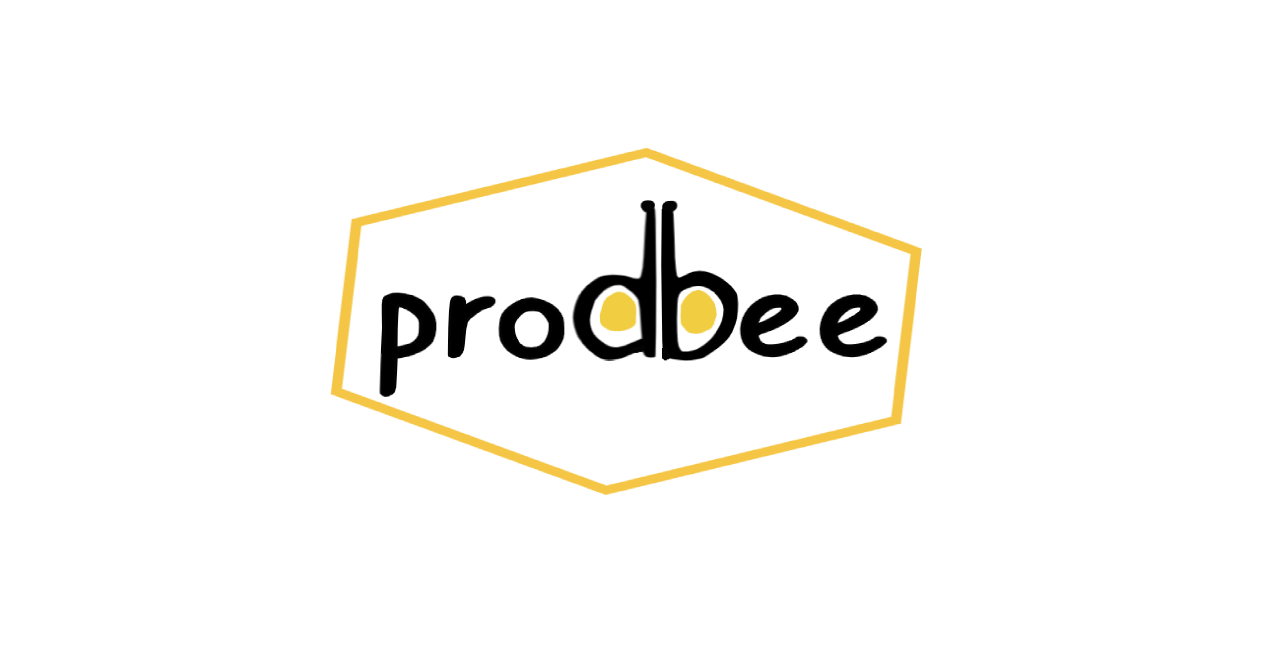
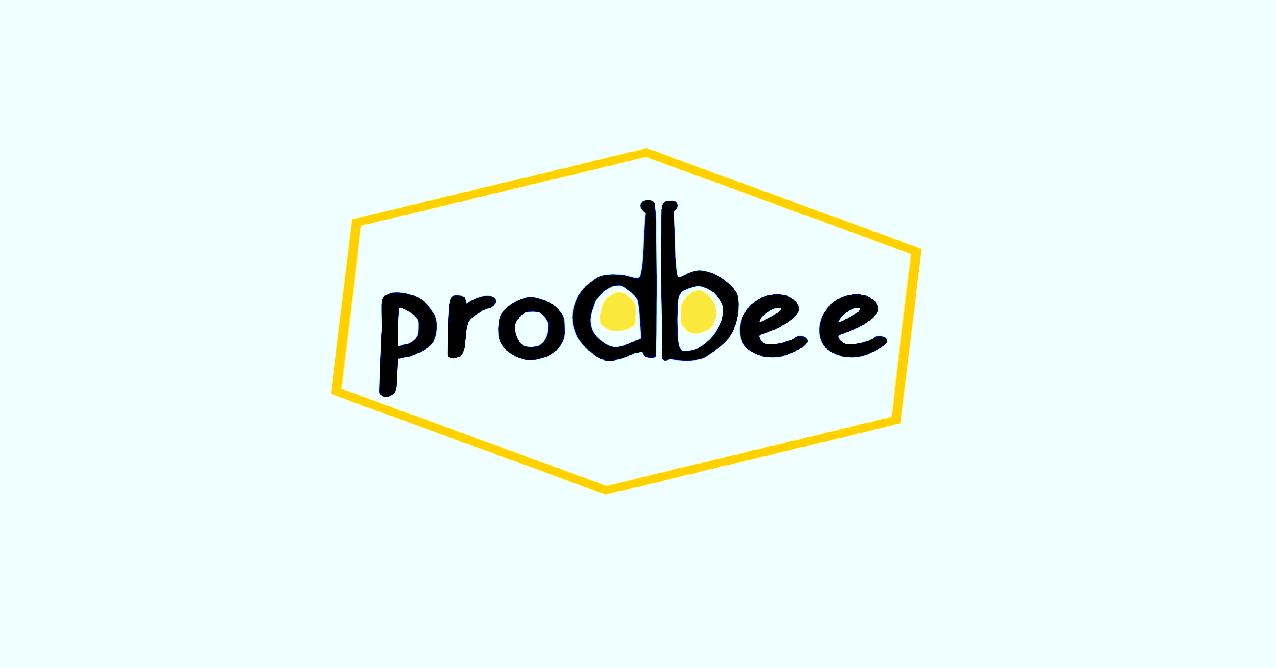
Prioritization post and prodbee image fix

diff --git a/_posts/2019-11-03-product-prioritization-empathy.md b/_posts/2019-11-03-product-prioritization-empathy.md
@@ -1,0 +1,102 @@
+---
+title: Product Prioritisation in Steps - Impact & Empathy
+image: assets/images/Prioritise-empathy.jpg
+author: tarun
+categories:
+- prioritisation
+tags:
+- product management
+- Product Managers
+- Associate Product Manager
+- Prioritisation techniques
+- Prioritisation matrix
+- framework
+- Empathy
+- Product Strategy
+- Stakeholder Management
+- Customer Impact
+- Product Value
+- featured
+---
+
+Prioritization is a key skill for a Product Manager. It ensures that Product companies invest on most important products features and build a space for innovation. It comprises of a detailed impact-effort analysis and intense stakeholder management. Product Managers have to use quantitative tools to lay down objectivity and fairness while managing stakeholders' opinions and satisfaction. In quantitative frameworks, often even a strong opinion be it from a customer or a business stakeholder is undermined as numbers are emotion agnostic. A good Product Manager is the one with a high degree of objectivity and empathy. 
+
+Below are some situation examples where even though customers may really need a feature, prioritization can easily fail.
+
+* Number of users of a feature are less in number but it's emotional value for customers is high
+* Feature's true impact on customer's daily lives is not accurately measured
+* Impact of unhappy customers (or to be unhappy) on business is not well understood
+
+Failure to analyse customer's emotions during prioritizations have caused many Product failures and PR disasters. In the famous "New Coke" disaster of 1980's, a functional aspect (sweetness preference of new customers) was prioritized over  emotions of loyal coke customers who swore by the original bitter taste. Coca Cola lost millions and finally had to recall "New Coke" after massive public outrage.
+Also, since Product and Business objectives are tied together, product prioritizations have to be considerate of business stakeholder's opinions and priorities. Imagine a Product with successful metrics on paper but with dissatisfied stakeholders.
+
+The below steps explain the product prioritization process which manages empathy & satisfaction among stakeholders (including customers). New impact factors like emotional value and priority of the customers are introduced within the standard framework of Impact vs Effort. To make it more meaningful to stakeholders, "theme" based grouping of product features is used. PMs first prioritize the "themes" as per stakeholder objectives. Afterwards, the relevant product features are listed and prioritized.
+
+
+**Themes : Feature bundles with common objectives** <br/>
+
+![product-themes]({{ site.baseurl }}/assets/images/product-themes.jpg)
+<u>Step 1) List and prioritize Product themes</u> :- While collaborating with stakeholders, Product leads first build consensus on prioritizations and timelines of "product themes". It is an outcome driven strategy in which multiple themes of one or two objectives are prioritized in the roadmap. PMs build themes from the annual goals and prioritize them across quarters/sprints as part of long term planning. Product themes are generally groupings of similar set of product features but product vision is more important than the feature details. Theme prioritization helps teams to focus by avoiding conflicts. It also makes prioritization more transparent and predictable for the stakeholders.
+
+Lets assume that as per stakeholder alignment, the below Themes A and B has greater priority than Theme C in current prioritization cycle
+<table style="border-color: 333399;">
+<tbody>
+<tr>
+<td><span style="color: #333399;">Theme A) - Enhancing customer satisfaction / service (existing features)</span><br /><span style="color: #333399;">Theme B) - Value added services / new features for increase in repeat rates</span><br /><span style="color: #333399;">Theme C) - Improving customer experience of checkout flow &amp; increasing booking conversions&nbsp;&nbsp;</span></td>
+</tr>
+</tbody>
+</table>
+*Note:- Themes could be spread across multiple quarters or sprints. Working on more one theme at the same time could also be common*
+
+<u>Step 2) List the plausible product features for prioritized themes</u> :- Each theme is split into multiple features with the defined objectives. Product Manager's own experience may not be the only way to define this feature list. This can be done creatively with contributions from different teams. 
+The below ways could be used to build feature list -
+* Brainstorming sessions with Business, Design, Engg. & Product teams  
+* Backlog of feature requests 
+* Market/industry trends 
+* Competitors
+* Existing product extensions/modifications
+
+
+<p>Themes -<br /><span style="color: #333399;">Theme A) - Enhancing customer satisfaction / service (existing features)</span><br /><span style="color: #333399;">Theme B) - Value added services / new features for increase in repeat rates</span></p>
+Features -
+![theme-features]({{ site.baseurl }}/assets/images/Themes-features.png)
+*Note:- Since the features are not detailed or analysed yet, product vision is more important than feature detailing at this stage*
+
+**Impact Value of features**  
+<u>Step 3) Identify "Business / Opportunity Value" of features</u> :- Business /opportunity could be measured by projecting historical data of business metrics like revenue, profit and efficiency. The opportunity cost e.g. GMV loss per day can also indicate the sense of urgency.
+* Revenue impact  - overall increase in GMV, USD1000 GMV per day 
+* Customer acquisition - rate of growth of new customers
+* Profit impact  - increase in profit margins
+* Operational efficiency - Manhours saved
+
+*Note :- For products with Customer satisfaction as primary objectives, emotional value can already be included in NPS/CSAT scores*
+
+<u>Step 4) Identify "Customer Satisfaction Value" of features</u>  :- Customer Satisfaction Value is often less deterministic as compared to business/opportunity but it can be partly measured using proxy metrics like usage, engagement, CSAT, NPS. 
+* User experience - Number of users/usage (Reach), Emotional value for target customers, Priority of target customers - CLV, NPS/CSAT impact
+* Customer Engagement - Number of users (Reach), Emotional value for target customers, Priority of target customers - CLV, NPS/CSAT impact
+
+Kano model is a popular prioritization tool used for prioritization. It is very effective when used for defining Emotional Value / Customer Satisfaction. Customer's satisfication from features can be determined by classifing them into attractive needs, performance needs or basic needs and checking the stage of the feature.
+* Attractive Needs: These features trigger feelings of high satisfaction and delight, but users are not dissatisfied if the feature are not present
+* Performance Needs: These features cause delight if they are present and cause dissatisfaction when they are not (or if they are poorly implemented). They’re very one-dimensional in nature and rely on good execution in order to be valued by users
+* Basic Needs: These are must-haves from customer expectations. Not including them is dissatisfying, but the ROI of improving them goes down sharply
+![KANO-model]({{ site.baseurl }}/assets/images/KANO-empathy.png)
+*Note :- Emotional Value can be measured from by -
+i)  asking open questions to sample of customers directly
+ii) survey data on how much customers love that feature 
+iii) using useability studies with and without the feature 
+iv) finding out number of feedbacks the feature received from customers.
+v) In some situations, you can also look at how many customers complained when the feature was not working properly (downtime) and how strong, quick user feedback was*
+
+**Cost of features**  
+<u>Step 5) Identify estimated Effort for features</u> :- Effort could be measured in terms of manhours required for the product / feature to be built. One must also check if relevant expertise is available for feature development. In other words, Effort must also include probablistic time-effort required to identify and resolve technical complexities and time for testing. e.g. XXL, XL, L, M, S (called T-shirt sizes) assuming a Large (L) effort feature takes 30 days or 2 sprints for development and testing. Based on the effort and resources at hand, we can identify the possible timeline and schedule for each of the feature. 
+
+<u>Step 6) Identify Risk / Confidence for features</u> :- The products features should also be weighed against Risk and confidence. E.g. The Business value impact for feature X may be high but confidence on its impact achievement may be low. Also, there could be predictable or unforseen operational/technical failures during development and execution. During prioritization, one must carefully assess and quantify those risk for better decision making and risk mitigation.
+
+**Prioritized Feature Set**  
+<u>Step 7) Rate features based on each factor</u> :- Points or ranks or categories (High, Medium, Low) are given for each of the factors (business and customer value, effort and Risk) against the feature. Customer and Business value can be aggregated as 'Impact value' with appropriate weightage.
+![Factor-prioritisation]({{ site.baseurl }}/assets/images/factor-prioritization.png)
+<u>Step 8) Rank the features or set the overall feature priority </u> :- Considering Impact Value, Effort and Risk/confidence, PMs should be able to come up with a clear priority of product features in Ranking or Points. It can also be useful to give different weights to different factors before arriving at final priority of features. It is important to not just logically quantify the priority based on multiple factor but is also important to represent the priority and communicate it to the stakeholders in understandable fashion. The below graphical representation is a useful way to represent the overall priority in the dimensions of value, effort and risk/confidence
+![empathy-prioritisation]({{ site.baseurl }}/assets/images/Empathy-prioritization.png) 
+*Note :- For overall prioritization, Product feature can be classified as i) P0- High priority/Most Urgent ii) P1- Medium priority/less-urgent iii) P2-Low priority/least-urgent. Alternatively Product feature could also be classfied as i) P0- Sacrifice others for this ii) P1- Try to keep iii) P2- Sacrifice these for others*
+
+Starting from Themes, we have now finalized a limited number of prioritized features for our upcoming roadmap  (or sprint). Having a properly documented and well-rehersed prioritization process helps all team members and stakeholders. It gives a logical structure to otherwise distributed arguments during prioritization. Also, since a PM is as good as his communications, it communicates the prioritization clearly, effectively and saves more time for more creative discussions within teams :)
